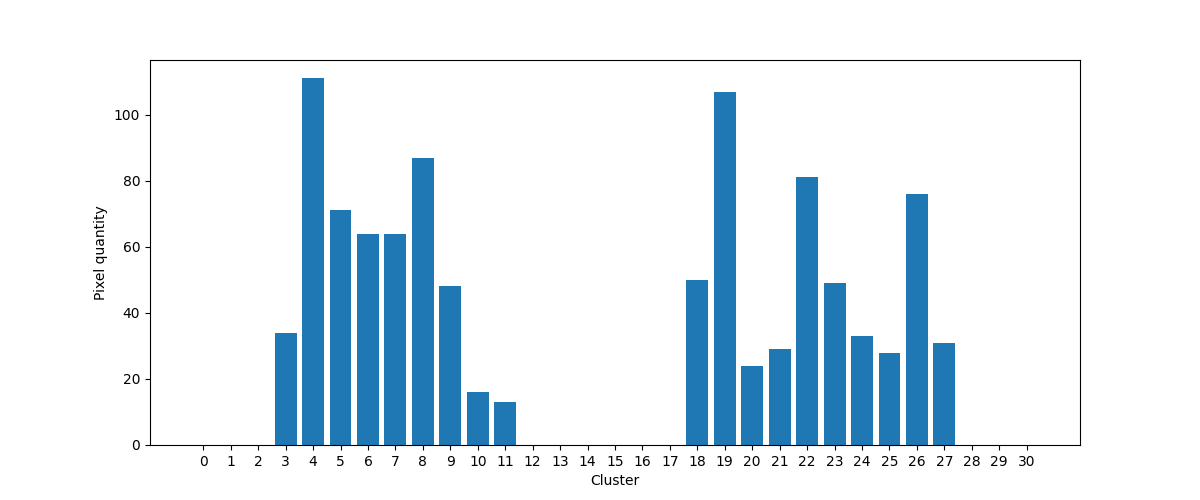
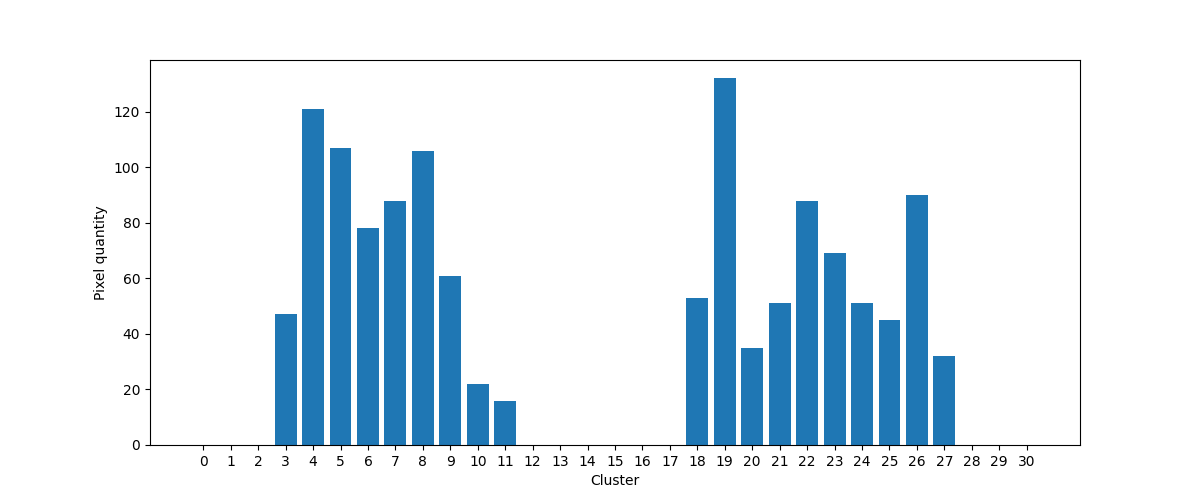
Nuevas imagenes

diff --git a/lab6.py b/lab6.py
@@ -104,7 +104,7 @@ def preprocessing(img):
     img, l = fillBlackLines(img, 0, 0)
     #img_dilation, _ = fillBlackLines(img_dilation, 1, l)
 
-    img = whitePadding(img, 5)
+    img = whitePadding(img, 3)
 
     kernel = np.ones((3,3), np.uint8)
     closing = cv2.morphologyEx(img, cv2.MORPH_CLOSE, kernel)
